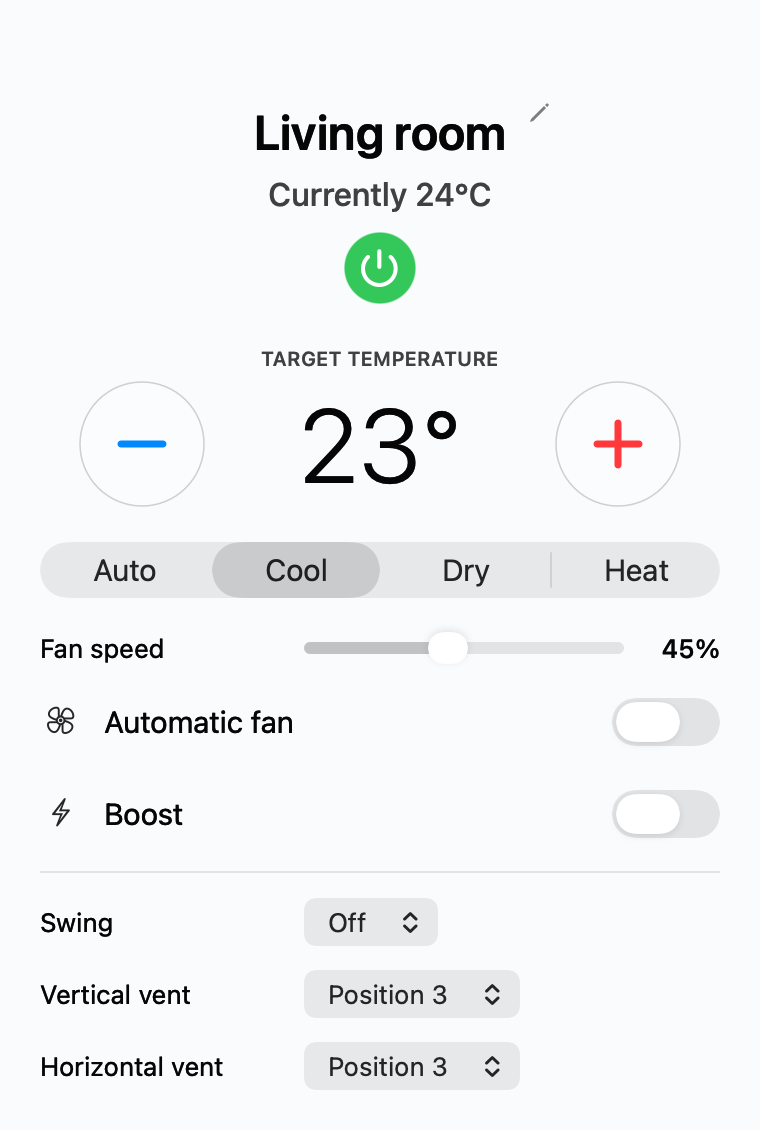
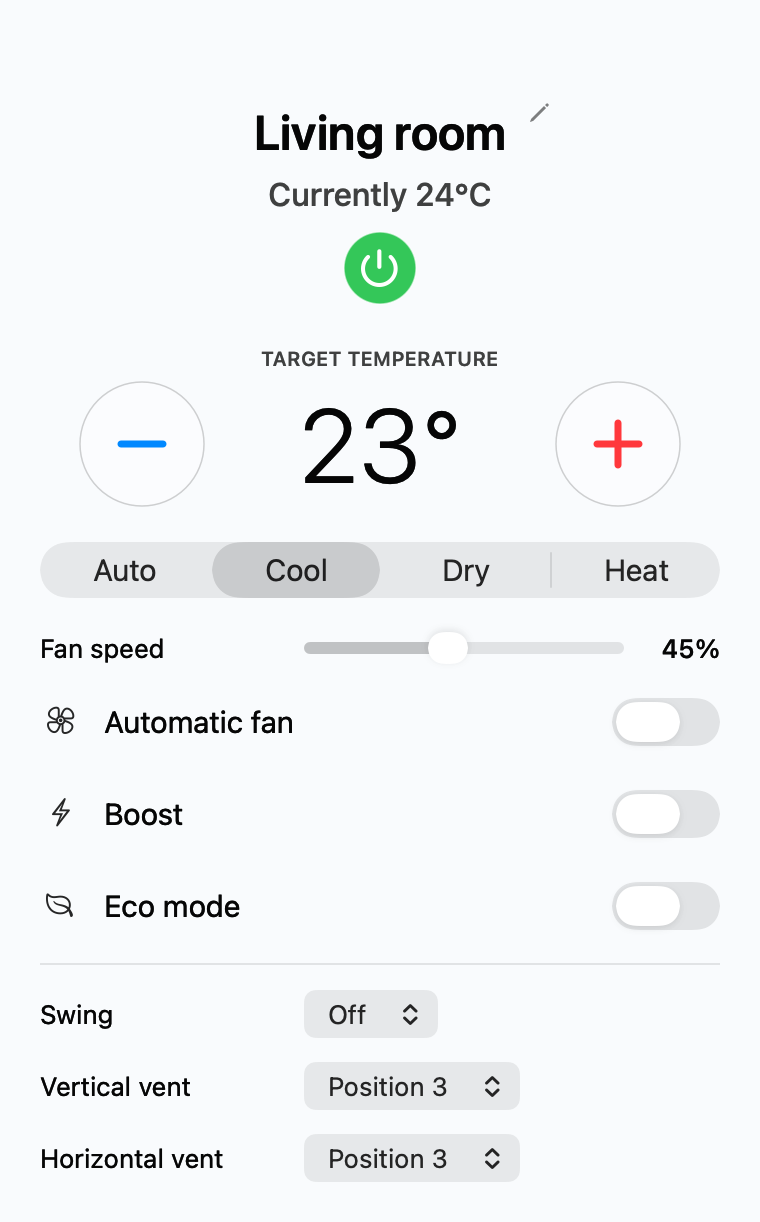
Add Eco mode controls to the app and CLI

diff --git a/native/AcMan.swift b/native/AcMan.swift
@@ -72,6 +72,7 @@ final class App: NSObject, NSApplicationDelegate, NSMenuDelegate {
     private let fanPercent = NSTextField(labelWithString: "—")
     private let autoFan = NSSwitch()
     private let boost = NSSwitch()
+    private let eco = NSSwitch()
     private let fanNote = NSTextField(wrappingLabelWithString: "")
     private let swing = NSPopUpButton()
     private let verticalAngle = NSPopUpButton()
@@ -396,6 +397,8 @@ final class App: NSObject, NSApplicationDelegate, NSMenuDelegate {
         }
         fanSetting("Automatic fan", symbol: "fanblades", toggle: autoFan)
         fanSetting("Boost", symbol: "bolt", toggle: boost)
+        configure(eco, #selector(setEco))
+        fanSetting("Eco mode", symbol: "leaf", toggle: eco)
         fanNote.font = .systemFont(ofSize: 11); fanNote.textColor = .secondaryLabelColor
         full(fanNote, in: contents); fanNote.heightAnchor.constraint(equalToConstant: 30).isActive = true
         let fanDivider = NSBox(); fanDivider.boxType = .separator
@@ -463,12 +466,14 @@ final class App: NSObject, NSApplicationDelegate, NSMenuDelegate {
             fanPercent.textColor = fan.isEnabled ? .labelColor : .disabledControlTextColor
             autoFan.isEnabled = enabled && d.fans.contains { $0.value == 102 }
             boost.state = boostOn ? .on : .off; boost.isEnabled = enabled && d.supportsBoost
+            eco.state = (change?.eco ?? d.eco) ? .on : .off
+            eco.isEnabled = enabled && d.supportsEco
             fanNote.stringValue = "This model supports fixed fan speeds; the slider snaps to them."
             fanNote.isHidden = d.customFan || boostOn || speed == 102
         } else {
             roomStatus.stringValue = "Status unavailable"
             power.setPowerState(nil)
-            fan.isEnabled = false; autoFan.isEnabled = false; boost.isEnabled = false
+            fan.isEnabled = false; autoFan.isEnabled = false; boost.isEnabled = false; eco.isEnabled = false
             fanPercent.textColor = .disabledControlTextColor
         }
         if let error = operationErrors[d.id] { footer.stringValue = error }
@@ -513,15 +518,16 @@ final class App: NSObject, NSApplicationDelegate, NSMenuDelegate {
                        temperature: newer.temperature ?? older?.temperature,
                        mode: newer.mode ?? older?.mode, fan: newer.fan ?? older?.fan,
                        swing: newer.swing ?? older?.swing, boost: newer.boost ?? older?.boost,
+                       eco: newer.eco ?? older?.eco,
                        verticalAngle: newer.verticalAngle ?? older?.verticalAngle,
                        horizontalAngle: newer.horizontalAngle ?? older?.horizontalAngle)
     }
 
-    private func change(power: Bool? = nil, temperature: Double? = nil, mode: Int32? = nil, fan: Int32? = nil, swing: Int32? = nil, boost: Bool? = nil, verticalAngle: Int32? = nil, horizontalAngle: Int32? = nil, deviceID: String? = nil) {
+    private func change(power: Bool? = nil, temperature: Double? = nil, mode: Int32? = nil, fan: Int32? = nil, swing: Int32? = nil, boost: Bool? = nil, eco: Bool? = nil, verticalAngle: Int32? = nil, horizontalAngle: Int32? = nil, deviceID: String? = nil) {
         guard let core, let d = snapshot.devices.first(where: { $0.id == (deviceID ?? selectedID) }), snapshot.signedIn, !authenticating, d.online else { return }
         let draft = temperatureDrafts.removeValue(forKey: d.id)
         temperatureTasks.removeValue(forKey: d.id)?.cancel()
-        let change = SettingsChange(power: power, temperature: temperature ?? draft, mode: mode, fan: fan, swing: swing, boost: boost, verticalAngle: verticalAngle, horizontalAngle: horizontalAngle)
+        let change = SettingsChange(power: power, temperature: temperature ?? draft, mode: mode, fan: fan, swing: swing, boost: boost, eco: eco, verticalAngle: verticalAngle, horizontalAngle: horizontalAngle)
         let alreadyRunning = pending[d.id] != nil
         // Latest value wins per setting; different settings are combined into the next request.
         queued[d.id] = merging(queued[d.id], change)
@@ -586,6 +592,7 @@ final class App: NSObject, NSApplicationDelegate, NSMenuDelegate {
     @objc private func setSwing() { change(swing: Int32(swing.selectedTag())) }
     @objc private func setVerticalAngle() { change(verticalAngle: Int32(verticalAngle.selectedTag())) }
     @objc private func setHorizontalAngle() { change(horizontalAngle: Int32(horizontalAngle.selectedTag())) }
+    @objc private func setEco() { change(eco: eco.state == .on) }
     @objc private func setBoost() { change(boost: boost.state == .on) }
     @objc private func setAutoFan() {
         // An explicit fan-mode selection takes control back from Boost.

diff --git a/src/protocol.rs b/src/protocol.rs
@@ -51,6 +51,46 @@ mod tests {
         assert_eq!(state.encode(1), fixture("set_from_state"));
     }
     #[test]
+    fn eco_capabilities_commands_and_readback() {
+        // msmart-ng PRESET_ECO (0x0212) supports values 1 and 2.
+        for value in [0, 1, 2, 3, 255] {
+            let caps =
+                Capabilities::decode(&frame(3, vec![0xb5, 1, 0x12, 2, 1, value], 1)).unwrap();
+            assert_eq!(caps.eco, matches!(value, 1 | 2));
+            for enabled in [true, false] {
+                let change = SettingsChange {
+                    eco: Some(enabled),
+                    ..Default::default()
+                };
+                let mut state = State::decode(&fixture("state_response")).unwrap();
+                if !caps.eco {
+                    assert!(state.apply(&change, &caps).is_err());
+                    continue;
+                }
+                state.apply(&change, &caps).unwrap();
+                assert_eq!(payload(&state.encode(1)).unwrap()[9] & 0x80 != 0, enabled);
+                // Status uses bit 0x10, unlike the command's 0x80.
+                let mut response = payload(&fixture("state_response")).unwrap().to_vec();
+                response[9] = (response[9] & !0x10) | if enabled { 0x10 } else { 0 };
+                let actual = State::decode(&frame(3, response, 1)).unwrap();
+                assert!(actual.matches(&change));
+                assert!(!actual.matches(&SettingsChange {
+                    eco: Some(!enabled),
+                    ..Default::default()
+                }));
+            }
+        }
+        let caps = Capabilities::decode(&fixture("capabilities_response")).unwrap();
+        assert!(!caps.eco);
+        assert!(
+            caps.validate(&SettingsChange {
+                eco: Some(true),
+                ..Default::default()
+            })
+            .is_err()
+        );
+    }
+    #[test]
     fn additional_capabilities_remain_pending_until_merged() {
         let mut caps = Capabilities::decode(&frame(3, vec![0xb5, 1, 0x10, 2, 1, 1, 1], 1)).unwrap();
         assert!(caps.additional);
@@ -252,7 +292,7 @@ pub struct State {
     pub boost: bool,
     pub indoor: Option<f64>,
     pub outdoor: Option<f64>,
-    eco: bool,
+    pub eco: bool,
     sleep: bool,
     fahrenheit: bool,
     purifier: bool,
@@ -366,6 +406,9 @@ impl State {
         if let Some(v) = change.boost {
             self.boost = v;
         }
+        if let Some(v) = change.eco {
+            self.eco = v;
+        }
         Ok(())
     }
     pub fn matches(&self, c: &SettingsChange) -> bool {
@@ -380,6 +423,7 @@ impl State {
             && c.horizontal_angle
                 .is_none_or(|v| Some(v) == self.horizontal_angle)
             && c.boost.is_none_or(|v| v == self.boost)
+            && c.eco.is_none_or(|v| v == self.eco)
     }
 }
 
@@ -394,6 +438,7 @@ pub struct Capabilities {
     pub horizontal_angle: bool,
     pub custom_fan: bool,
     pub boost: bool,
+    pub eco: bool,
     pub min_temp: f64,
     pub max_temp: f64,
 }
@@ -431,6 +476,7 @@ impl Capabilities {
             horizontal_angle: false,
             custom_fan: false,
             boost: false,
+            eco: false,
             min_temp: 16.0,
             max_temp: 30.0,
         };
@@ -505,6 +551,7 @@ impl Capabilities {
         if self.custom_fan {
             self.fans.push(100);
         }
+        self.eco = self.value(0x212).is_some_and(|v| [1, 2].contains(&v));
         self.boost = self.value(0x21a).is_some_and(|v| [0, 1, 3].contains(&v));
         if let Some(t) = self.raw.get(&0x225).filter(|t| t.len() >= 6) {
             self.min_temp = f64::from(*[t[0], t[2], t[4]].iter().min().unwrap()) / 2.0;
@@ -520,6 +567,7 @@ impl Capabilities {
             && c.vertical_angle.is_none()
             && c.horizontal_angle.is_none()
             && c.boost.is_none()
+            && c.eco.is_none()
         {
             return Err(problem("Choose at least one setting."));
         }
@@ -551,6 +599,9 @@ impl Capabilities {
             if value.is_some_and(|v| !supported || ![0, 1, 25, 50, 75, 100].contains(&v)) {
                 return Err(problem("This AC does not support that vent position."));
             }
+        }
+        if c.eco.is_some() && !self.eco {
+            return Err(problem("This AC does not support Eco mode."));
         }
         if c.boost.is_some() && !self.boost {
             return Err(problem("This AC does not support Boost."));

diff --git a/src/cli.rs b/src/cli.rs
@@ -89,6 +89,11 @@ enum DeviceCommand {
         #[arg(value_enum)]
         value: Toggle,
     },
+    /// Enable or disable Eco mode.
+    Eco {
+        #[arg(value_enum)]
+        value: Toggle,
+    },
     /// Change several settings in one confirmed command.
     Set(SetOptions),
     /// Change the room name on this computer.
@@ -159,6 +164,8 @@ struct SetOptions {
     swing: Option<Swing>,
     #[arg(long, value_enum)]
     boost: Option<Toggle>,
+    #[arg(long, value_enum)]
+    eco: Option<Toggle>,
     #[arg(long, help = "Vertical vent position: off or 1–5 (not degrees)")]
     vertical_angle: Option<String>,
     #[arg(long, help = "Horizontal vent position: off or 1–5 (not degrees)")]
@@ -200,6 +207,7 @@ fn change(command: DeviceCommand) -> Result<SettingsChange> {
         DeviceCommand::VerticalAngle { value } => c.vertical_angle = Some(angle_value(&value)?),
         DeviceCommand::HorizontalAngle { value } => c.horizontal_angle = Some(angle_value(&value)?),
         DeviceCommand::Boost { value } => c.boost = Some(value.enabled()),
+        DeviceCommand::Eco { value } => c.eco = Some(value.enabled()),
         DeviceCommand::Set(o) => {
             c.power = o.power.map(|v| v.enabled());
             c.temperature = o.temperature;
@@ -207,6 +215,7 @@ fn change(command: DeviceCommand) -> Result<SettingsChange> {
             c.fan = o.fan.map(|v| fan_value(&v)).transpose()?;
             c.swing = o.swing.map(|v| v.value());
             c.boost = o.boost.map(|v| v.enabled());
+            c.eco = o.eco.map(|v| v.enabled());
             c.vertical_angle = o.vertical_angle.map(|v| angle_value(&v)).transpose()?;
             c.horizontal_angle = o.horizontal_angle.map(|v| angle_value(&v)).transpose()?;
         }
@@ -227,6 +236,7 @@ fn change(command: DeviceCommand) -> Result<SettingsChange> {
         && c.vertical_angle.is_none()
         && c.horizontal_angle.is_none()
         && c.boost.is_none()
+        && c.eco.is_none()
     {
         return Err(problem(
             "Provide at least one setting, such as --temperature 23.",
@@ -299,6 +309,9 @@ fn print_device(d: &DeviceSnapshot, json: bool) -> Result<()> {
         name(SWING_NAMES, d.swing),
         if d.boost { "On" } else { "Off" }
     );
+    if d.supports_eco {
+        println!("Eco: {}", if d.eco { "On" } else { "Off" });
+    }
     for (label, value, options) in [
         ("Vertical vent", d.vertical_angle, &d.vertical_angles),
         ("Horizontal vent", d.horizontal_angle, &d.horizontal_angles),
@@ -463,6 +476,19 @@ mod tests {
         assert_eq!(c.fan, Some(102));
         assert_eq!(c.temperature, Some(23.5));
         assert_eq!(c.boost, Some(false));
+    }
+    #[test]
+    fn eco_commands_parse_on_off_and_combined_settings() {
+        for (value, enabled) in [("on", true), ("off", false)] {
+            for args in [
+                vec!["ac-man <DEVICE>", "eco", value],
+                vec!["ac-man <DEVICE>", "set", "--eco", value],
+            ] {
+                let command = DeviceCli::try_parse_from(args).unwrap().command;
+                assert_eq!(change(command).unwrap().eco, Some(enabled));
+            }
+        }
+        assert!(DeviceCli::try_parse_from(["ac-man <DEVICE>", "eco", "maybe"]).is_err());
     }
     #[test]
     fn login_never_accepts_password_argument() {

diff --git a/src/controller.rs b/src/controller.rs
@@ -180,7 +180,7 @@ impl AcController {
         let caps=s.caps.get(&record.cloud_id).ok_or_else(||problem("Read this AC's supported settings before changing it."))?;
         state.apply(&change,caps)?;
         let regular = change.power.is_some() || change.temperature.is_some() || change.mode.is_some()
-            || change.fan.is_some() || change.swing.is_some() || change.boost.is_some();
+            || change.fan.is_some() || change.swing.is_some() || change.boost.is_some() || change.eco.is_some();
         let frame=regular.then(|| state.encode(s.next_sequence()));
         let angles=protocol::angle_command(&change,s.next_sequence());
         // Never automatically retry a write: a lost acknowledgement may still mean it applied.
@@ -456,8 +456,10 @@ impl Inner {
                     vec![]
                 },
                 boost: state.is_some_and(|s| s.boost),
+                eco: state.is_some_and(|s| s.eco),
                 custom_fan: caps.is_some_and(|c| c.custom_fan),
                 supports_boost: caps.is_some_and(|c| c.boost),
+                supports_eco: caps.is_some_and(|c| c.eco),
                 min_temperature: caps.map_or(16.0, |c| c.min_temp),
                 max_temperature: caps.map_or(30.0, |c| c.max_temp),
                 modes: choices(caps.map_or(&[], |c| c.modes.as_slice()), MODE_NAMES),

diff --git a/src/lib.rs b/src/lib.rs
@@ -53,8 +53,10 @@ pub struct DeviceSnapshot {
     pub vertical_angles: Vec<Choice>,
     pub horizontal_angles: Vec<Choice>,
     pub boost: bool,
+    pub eco: bool,
     pub custom_fan: bool,
     pub supports_boost: bool,
+    pub supports_eco: bool,
     pub min_temperature: f64,
     pub max_temperature: f64,
     pub modes: Vec<Choice>,
@@ -79,6 +81,7 @@ pub struct SettingsChange {
     pub fan: Option<i32>,
     pub swing: Option<i32>,
     pub boost: Option<bool>,
+    pub eco: Option<bool>,
     pub vertical_angle: Option<i32>,
     pub horizontal_angle: Option<i32>,
 }

diff --git a/README.md b/README.md
@@ -38,7 +38,7 @@ Open **ac-man.app**, then click its air-conditioner icon in the menu bar. Sign i
 - Power, target temperature in Celsius, operating mode, and swing.
 - Vertical and horizontal vent positions on units that advertise support.
 - Fan speed as a percentage slider, with an **Automatic fan** switch.
-- A **Boost** switch for the unit's turbo setting.
+- A **Boost** switch for the unit's turbo setting and an **Eco mode** switch on supported units.
 - A local room label, shared with the CLI.
 
 Supported controls come from the unit's capabilities. Units with custom fan control accept whole percentages from 1–100; units with fixed speeds accept only the percentages they report. The fan slider is greyed out while Automatic fan or Boost is active. Switching Automatic fan off restores the previous manual speed; selecting a fan setting also turns Boost off. Commands are followed by a status read to confirm the result.
@@ -76,6 +76,8 @@ ac-man 1 fan 37
 ac-man 1 fan auto
 ac-man 1 boost on
 ac-man 1 boost off
+ac-man 1 eco on
+ac-man 1 eco off
 ac-man 1 swing vertical
 ac-man 1 vertical-angle 2
 ac-man 1 horizontal-angle 3
@@ -99,7 +101,8 @@ Labels match without regard to case; quote labels containing spaces. A label or 
 | `swing` | `off`, `horizontal`, `vertical`, `both` |
 | `vertical-angle`, `horizontal-angle` | `off`, or position `1`–`5` on supported units (not degrees) |
 | `boost` | `on`, `off` |
-| `set` | Combine `--power`, `--temperature`, `--mode`, `--fan`, `--swing`, `--boost`, `--vertical-angle`, `--horizontal-angle` |
+| `eco` | `on`, `off` (supported units) |
+| `set` | Combine `--power`, `--temperature`, `--mode`, `--fan`, `--swing`, `--boost`, `--eco`, `--vertical-angle`, `--horizontal-angle` |
 | `rename` | New local label, up to 60 characters |
 | `id` | New unique positive integer |
 
